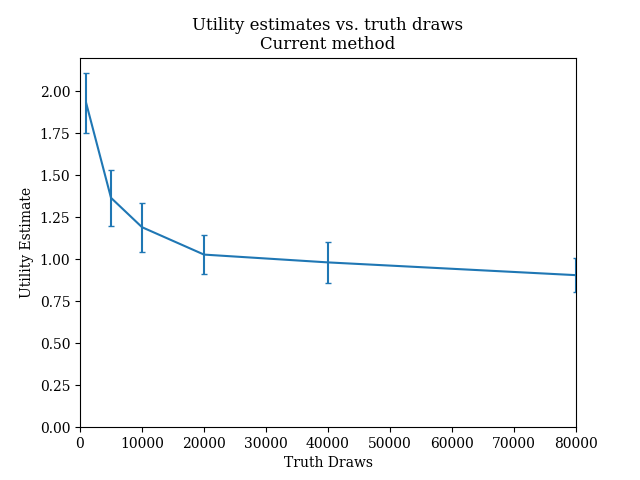
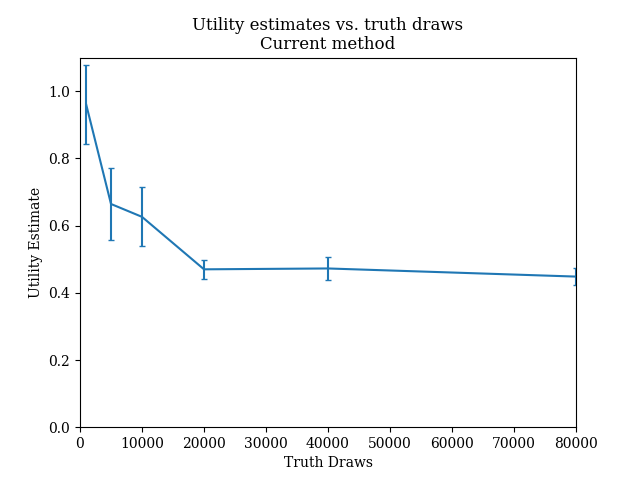
importance sampling scratch

diff --git a/studies/importancedraws_14MAR24/SCRATCH_importancedraws.py b/studies/importancedraws_14MAR24/SCRATCH_importancedraws.py
@@ -273,17 +273,18 @@ for numtruthdraws in truthdrawslist:
     print(utilavg, (utilCIlo, utilCIhi))
 
 '''18-MAR-24
-util_list = [1.928953581133419, 1.3653450593217058, 1.19049988687896,
- 1.0274356559783024, 0.9809383681292192, 0.905028881148298]
-utilCI_list = [(1.7511708056790125, 2.1067363565878257), (1.197911050025763, 1.5327790686176486),
- (1.0437844208013858, 1.3372153529565343), (0.9135623498567207, 1.1413089620998842),
- (0.8610240620046747, 1.1008526742537637), (0.8048188986619182, 1.0052388636346778)]
+util_list = [0.9603319830270349,  0.6643353895719342,
+ 0.626035598447455,  0.46986298569528584,
+ 0.4724290016766588,  0.44825931109091455]
+utilCI_list = [(0.842242948212069, 1.0784210178420008),  (0.5585907279654458, 0.7700800511784225),
+ (0.537830726986563, 0.7142404699083471),  (0.4414494273097662, 0.49827654408080546),
+ (0.4376701304279651, 0.5071878729253525),  (0.4232933005606201, 0.473225321621209)]
 '''
 
 # Plot of estimates under current method
 utilerrs = np.array([utilCI_list[i][1] - util_list[i] for i in range(len(truthdrawslist))])
 plt.errorbar(truthdrawslist, util_list, yerr=utilerrs, ms=15, mfc='red', mew=1, mec='red', capsize=2)
-plt.ylim([0, 2.2])
+plt.ylim([0, 1.1])
 plt.xlim([0, 80000])
 plt.title('Utility estimates vs. truth draws\nCurrent method')
 plt.xlabel('Truth Draws')
@@ -295,6 +296,12 @@ plt.show()
 # Now generate new estimation with MCMC importance draws
 #################################
 #################################
+
+design = n/n.sum()
+numtests = n.sum()
+priordatadict = lgdict.copy()
+numdatadrawsforimportance = 10
+numimportdraws = 10000
 
 def importance_method_loss_list(design, numtests, priordatadict, paramdict, numdatadrawsforimportance, numimportdraws):
     """
@@ -330,24 +337,48 @@ def importance_method_loss_list(design, numtests, priordatadict, paramdict, numd
     tempdict = priordatadict.copy()
     tempdict['N'], tempdict['Y'] = priordatadict['N'] + NMatAvg, priordatadict['Y'] + YMatAvg
     # Generate a new MCMC importance set
-
-
-
-
+    tempdict['numPostSamples'] = numimportdraws
+    tempdict = methods.GeneratePostSamples(tempdict, maxTime=5000)
+    importancedraws = tempdict['postSamples'].copy()
     # Get weights matrix
-    W = sampf.build_weights_matrix(paramdict['truthdraws'], paramdict['datadraws'], sampMat, priordatadict)
+    Wimport = sampf.build_weights_matrix(importancedraws, paramdict['datadraws'], sampMat, priordatadict)
     # Get risk matrix
-    R = lf.risk_check_array(paramdict['truthdraws'], paramdict['riskdict'])
+    Rimport = lf.risk_check_array(importancedraws, paramdict['riskdict'])
     # Get critical ratio
     q = paramdict['scoredict']['underestweight'] / (1 + paramdict['scoredict']['underestweight'])
+    # Get likelihood weights WRT original data set
+    zMatImport = util.zProbTrVec(numSN, importancedraws, sens=s, spec=r)  # Matrix of SFP probabilities along each trace
+    NMatPrior, YMatPrior = priordatadict['N'], priordatadict['Y']
+    Vimport = np.zeros(shape = numimportdraws)
+    for snInd in range(numSN):  # Loop through each SN and TN combination; DON'T vectorize as resulting matrix can be too big
+        for tnInd in range(numTN):
+            if NMatPrior[tnInd, snInd] > 0:
+                bigZtemp = np.transpose(
+                    np.reshape(np.tile(zMatImport[:, tnInd, snInd], 1), (1, numimportdraws)))
+                bigNtemp = np.reshape(np.tile(NMatPrior[tnInd, snInd], numimportdraws), (numimportdraws, 1))
+                bigYtemp = np.reshape(np.tile(YMatPrior[tnInd, snInd], numimportdraws), (numimportdraws, 1))
+                combNYtemp = np.reshape(np.tile(spsp.comb(NMatPrior[tnInd, snInd], YMatPrior[tnInd, snInd]),
+                                                numimportdraws), (numimportdraws, 1))
+                Vimport += np.squeeze( (bigYtemp * np.log(bigZtemp)) + ((bigNtemp - bigYtemp) * np.log(1 - bigZtemp)) + np.log(
+                    combNYtemp))
+    Vimport = np.exp(Vimport)
+
+    '''
+    def cand_obj_val_importance(x, truthdraws, Wvec, paramdict, riskmat):
+        """Objective for optimization step"""
+        # scoremat stores the loss (ignoring the risk) for x against the draws in truthdraws
+        scoremat = lf.score_diff_matrix(truthdraws, x.reshape(1, truthdraws[0].shape[0]), paramdict['scoredict'])[0]
+        return np.sum(np.sum(scoremat * riskmat * paramdict['marketvec'], axis=1) * Wvec)
+    '''
+
     # Compile list of optima
     minslist = []
-    for j in range(W.shape[1]):
-        est = bayesest_critratio(paramdict['truthdraws'], W[:, j], q)
-        minslist.append(cand_obj_val(est, paramdict['truthdraws'], W[:, j], paramdict, R))
+    for j in range(Wimport.shape[1]):
+        est = sampf.bayesest_critratio(importancedraws, Wimport[:, j]*Vimport, q)
+        minslist.append(sampf.cand_obj_val(est, importancedraws, Wimport[:, j], paramdict, Rimport))
     return minslist
 
-def getImportanceUtilityEstimate(n, lgdict, paramdict, zlevel=0.95):
+def getImportanceUtilityEstimate(n, lgdict, paramdict, numdatadrawsforimportance, numimportdraws, zlevel=0.95):
     """
     Return a utility estimate average and confidence interval for allocation array n, using a second MCMC set of
     'importance' draws
@@ -355,12 +386,23 @@ def getImportanceUtilityEstimate(n, lgdict, paramdict, zlevel=0.95):
     testnum = int(np.sum(n))
     des = n/testnum
     # TODO: FOCUS IS HERE
-    currlosslist = importance_method_loss_list(des, testnum, lgdict, paramdict)
+    currlosslist = importance_method_loss_list(des, testnum, lgdict, paramdict, numdatadrawsforimportance,
+                                               numimportdraws)
     # TODO: END OF FOCUS
     currloss_avg, currloss_CI = sampf.process_loss_list(currlosslist, zlevel=zlevel)
     return paramdict['baseloss'] - currloss_avg, (paramdict['baseloss']-currloss_CI[1], paramdict['baseloss']-currloss_CI[0])
 
 
+datadrawsforimportancelist = [10]
+numimportdrawslist = [100, 500, 1000, 5000, 10000]
+
+utilavgstore, utilCIstore = [], []
+for numimportdraws in numimportdrawslist:
+    currutilavg, (currutilCIlo, currutilCIhi) = getImportanceUtilityEstimate(n, lgdict, paramdict,
+                                                                             numdatadrawsforimportance=10,
+                                                                     numimportdraws=numimportdraws)
+    utilavgstore.append(currutilavg)
+    utilCIstore.append((currutilCIlo, currutilCIhi))
 
 
 
